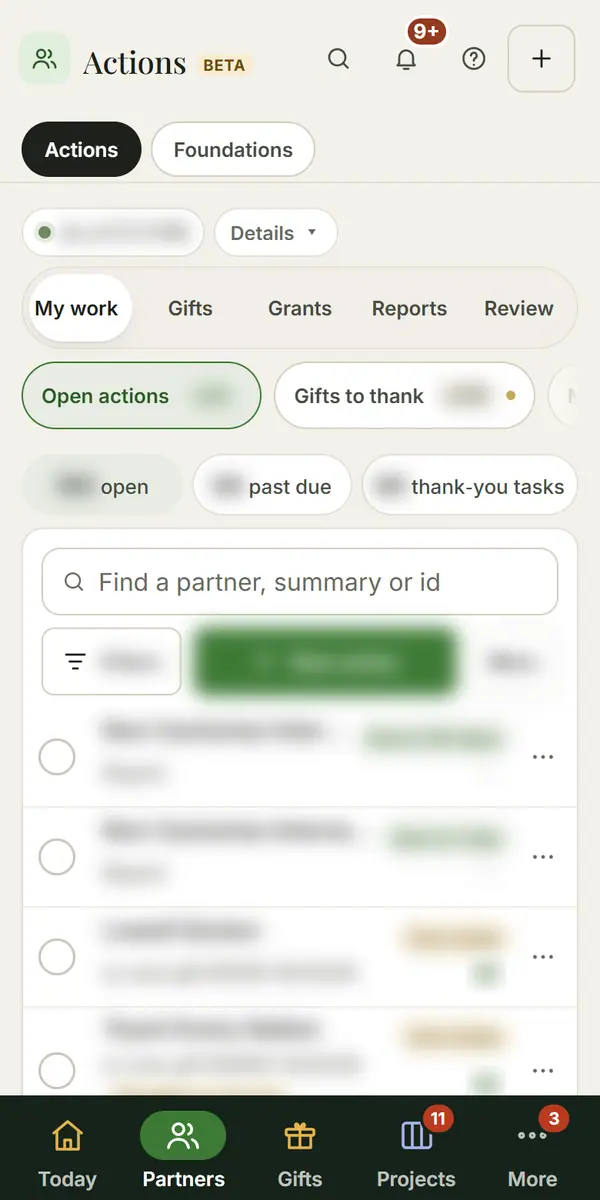
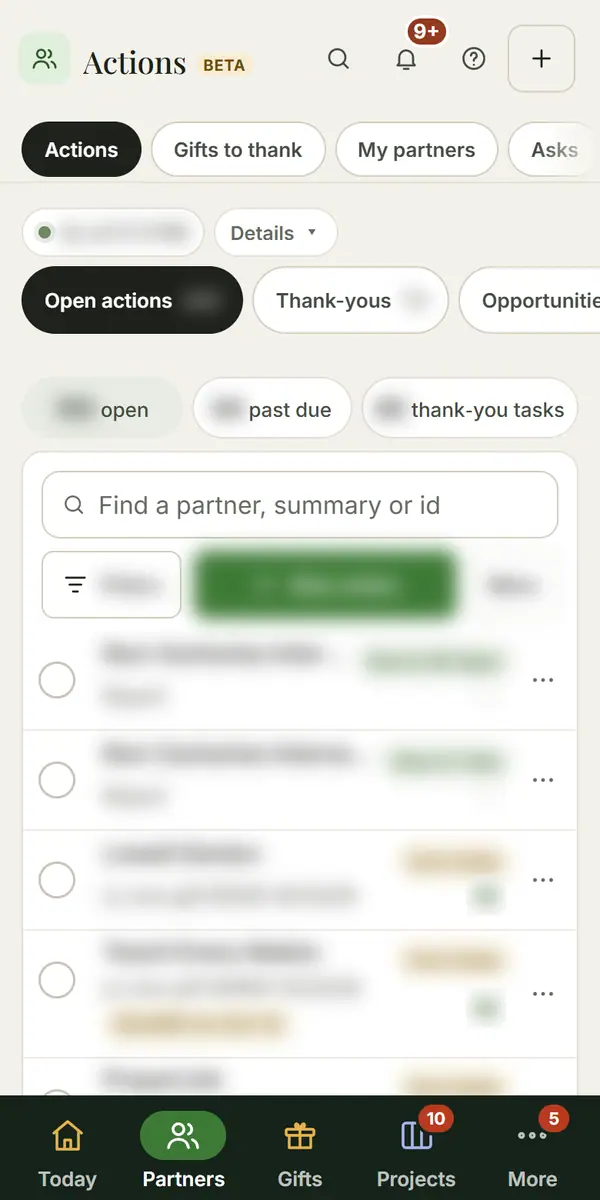
One page width per area: Gifts full width, Staff and Welcome on one 1,280 px column; What's new for Partners, Staff and Admin settings; Gifts step in the October 14 walkthrough

diff --git a/src/styles/nav-areas.css b/src/styles/nav-areas.css
@@ -120,3 +120,16 @@ body.h-body #h-content.is-settling::before { content: ''; position: absolute; z-
 /* Full sidebar: an area's name never gives way to its badge and count ("Proje..." beside Alpha and 11). */
 html.nav-wide body.h-body .h-area__link .h-area__label, body.h-body .h-app.is-peek .h-area__link .h-area__label, body.h-body .h-app.is-nav .h-area__link .h-area__label { flex: 0 0 auto; overflow: visible; }
 html.nav-wide body.h-body .h-area__link .h-rel, body.h-body .h-app.is-peek .h-area__link .h-rel { padding: 0 5px; font-size: 10px; margin-left: 4px; }
+
+/* ------------------------------------------------------------ one page width per area (2026-10-14)
+   Gifts runs full width on every page (tables and boards). Staff pages share one 1,280 px column, centered, so moving between
+   Expenses, Evaluations, Learning and Onboarding never changes the column. Welcome takes the same column as the rest of Help. */
+body.h-body[data-area='gifts'] .og-wrap { max-width: none; }
+body.h-body[data-area='staff'] .ev-page .container,
+body.h-body[data-area='staff'] .ob,
+body.h-body[data-area='staff'] .ln,
+body.h-body[data-area='staff'] .ln[data-view='player'],
+body.h-body[data-area='staff'] .exp-page .container,
+body.h-body[data-area='staff'] #pr { max-width: 1280px; width: 100%; margin-inline: auto; }
+body.h-body[data-area='staff'] .exp-page .container { padding-inline: 0; }
+body.h-body[data-area='help'] .wl { max-width: 1280px; margin-inline: auto; }

diff --git a/src/scripts/tours.ts b/src/scripts/tours.ts
@@ -311,6 +311,18 @@ export const RELEASES: Release[] = [
             added: '2026-10-14',
             side: 'bottom',
           },
+          {
+            id: 'n-gifts-day',
+            skipIfMissing: true,
+            page: '/gifts/',
+            via: 'gifts-home',
+            at: '#gh-steps',
+            title: 'The gift day on one screen',
+            body: 'Gifts opens on the day: deposits started, online gifts to approve, gifts waiting for a second look, this month in Blackbaud, receipts and thank-you letters. {Tap} a number to open its page. Gift entry lists every deposit of the month, even the batches typed straight into Blackbaud.',
+            for: (w) => w.admin || team('pc')(w) || team('support')(w),
+            added: '2026-10-14',
+            side: 'bottom',
+          },
         ],
       },
     ],

diff --git a/src/content/changelog/2026-10-14.md b/src/content/changelog/2026-10-14.md
@@ -1,6 +1,22 @@
 ---
 date: "2026-10-14"
 entries:
+  - time: "21:05"
+    area: partners
+    type: improved
+    text: "The Work Center's tabs are the tabs of Partners: Actions, Gifts to thank, My partners, Asks, Cadence, My week, Entry, Grants and Foundations, with the tabs for your job first. A tab switches in place and the address keeps it. Actions has one row of views over the table: Open actions, Thank-yous, Opportunities, Stale, Recent changes and Gift images."
+    image: /changelog/2026-10-14/partners-tabs-desk.webp
+    phone: /changelog/2026-10-14/partners-tabs-phone.webp
+  - time: "21:05"
+    area: staff
+    type: improved
+    text: "Staff > Expenses is one page: your requests with their status and signed PDFs, New expense request, and for approvers the log below them."
+    image: /changelog/2026-10-14/staff-tabs-desk.webp
+    phone: /changelog/2026-10-14/staff-tabs-phone.webp
+  - time: "21:05"
+    area: admin
+    type: improved
+    text: "The switches that sat on the pages staff work in moved to Admin settings. Admin > Settings > Gifts holds who opens Gift entry and sends to Blackbaud, the second approval amount and the Online gifts writes switch. The Work Center's Settings button opens Admin settings."
   - time: "20:10"
     area: today
     type: improved
